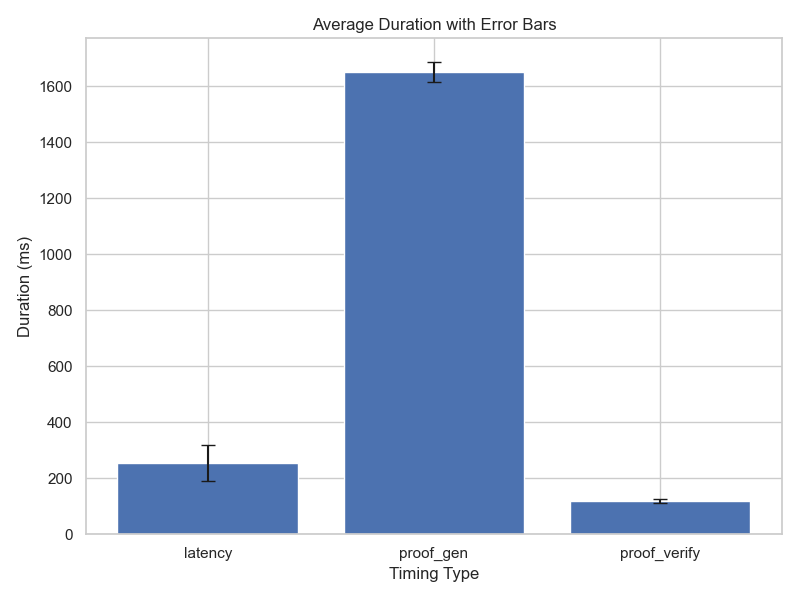
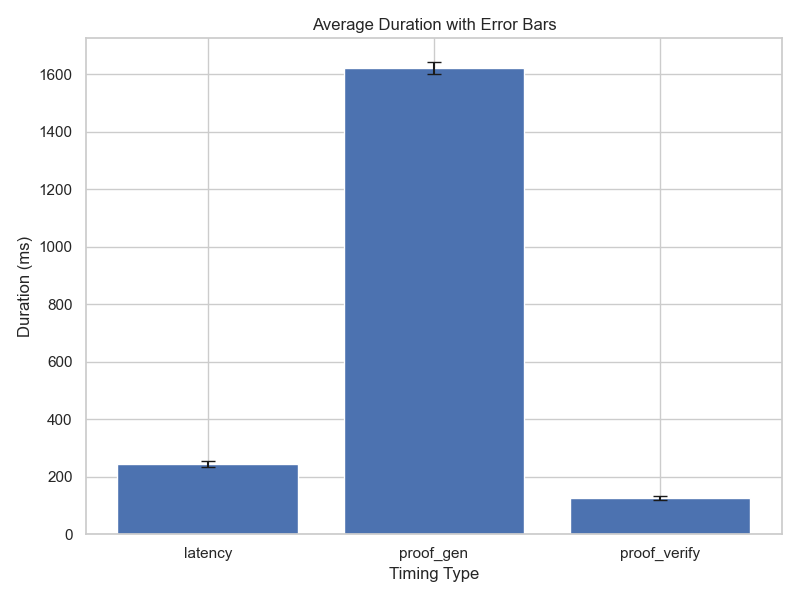
fixed timing issues with 2 and 3 as well as outlier for 3

diff --git a/signal-cli/server/src/server.rs b/signal-cli/server/src/server.rs
@@ -179,7 +179,7 @@ pub async fn forward_jsonrpc(
     let exec: ExecutedMethod<F, Snark, Args, Cr, 1> =
         ExecutedMethod::deserialize_with_mode(&mut reader, Compress::No, Validate::Yes).unwrap();
     // Start (2)
-    let start_time = Utc::now(); // Start (2)
+    let start_time_2 = Utc::now(); // Start (2)
     let verified =
         <GRSchnorrObjStore as UserBul<F, MsgUser>>::verify_interact_and_append::<F, Groth16<E>, 1>(
             &mut db.obj_bul,
@@ -213,11 +213,8 @@ pub async fn forward_jsonrpc(
             332, // interaction number
         );
 
-    let end_time = Utc::now(); // End (2)
+    let end_time_2 = Utc::now(); // End (2)
 
-    if let Err(e) = append_timing_line("2", start_time, end_time) {
-        eprintln!("❌ Failed to write timing file for proof gen: {}", e);
-    }
     
     info!("[SERVER] Verification result: {:?}", res);
     if verified.is_ok() && res.is_ok() {
@@ -278,6 +275,10 @@ pub async fn forward_jsonrpc(
     };
 
     if let Err(e) = append_timing_line("3", start_time, end_time) {
+        eprintln!("❌ Failed to write timing file for proof gen: {}", e);
+    }
+
+    if let Err(e) = append_timing_line("2", start_time_2, end_time_2) {
         eprintln!("❌ Failed to write timing file for proof gen: {}", e);
     }
 

diff --git a/signal-cli/client/src/helpers.rs b/signal-cli/client/src/helpers.rs
@@ -43,6 +43,7 @@ use zk_callbacks::{
 };
 use std::path::Path;
 use serde_json::json;
+use std::time::Instant;
 
 #[derive(Serialize, Deserialize)]
 pub struct PseudonymProofEntry {
@@ -166,7 +167,7 @@ pub fn append_timing_line(label: &str, start: DateTime<Utc>, end: DateTime<Utc>)
     let line = json!({
         "start": start.to_rfc3339(),
         "end": end.to_rfc3339(),
-        "duration_ms": duration_ms
+        "duration_ms": duration_ms,
     }).to_string();
 
     let dir = format!("json_files/{}", label);
@@ -210,6 +211,7 @@ pub fn gen_cb_for_msg() -> Result<Vec<u8>, SynthesisError> {
 
     // End(1)
     let end_time = Utc::now();  // End (1)
+
     if let Err(e) = append_timing_line("1", start_time, end_time) {
         eprintln!("Failed to write timing file for proof gen: {}", e);
     }

diff --git a/signal-cli/client/src/main.rs b/signal-cli/client/src/main.rs
@@ -152,6 +152,7 @@ async fn main() {
                         group_id,
                         proof: proof_bytes, // add this to your input struct
                     };
+                    
                     let start_time = Utc::now(); // Start (3)
 
                     if let Err(e) = save_start_time("3", start_time) {

diff --git a/signal-cli/script.py b/signal-cli/script.py
@@ -41,6 +41,9 @@ clean_previous_results()
 for subdir in ['json_files/1', 'json_files/2', 'json_files/3']:
     os.makedirs(subdir, exist_ok=True)
 
+with open("json_files/3/start_time.json", "w") as f:
+    f.write('{}')
+
 def run_command(command):
     start = time.time()
     try:
